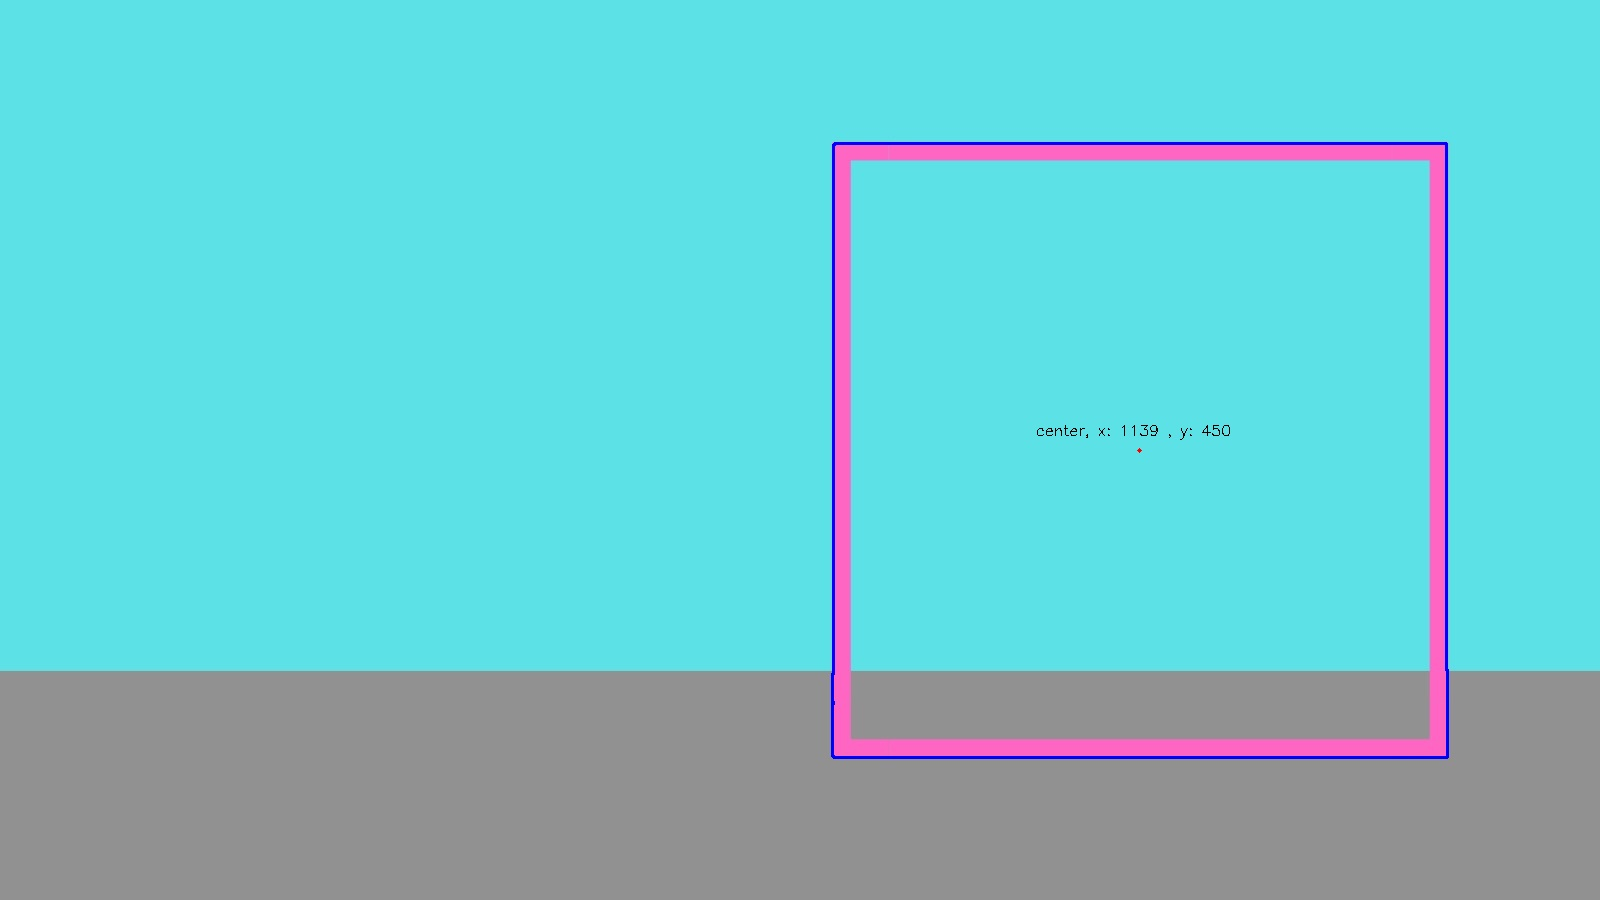
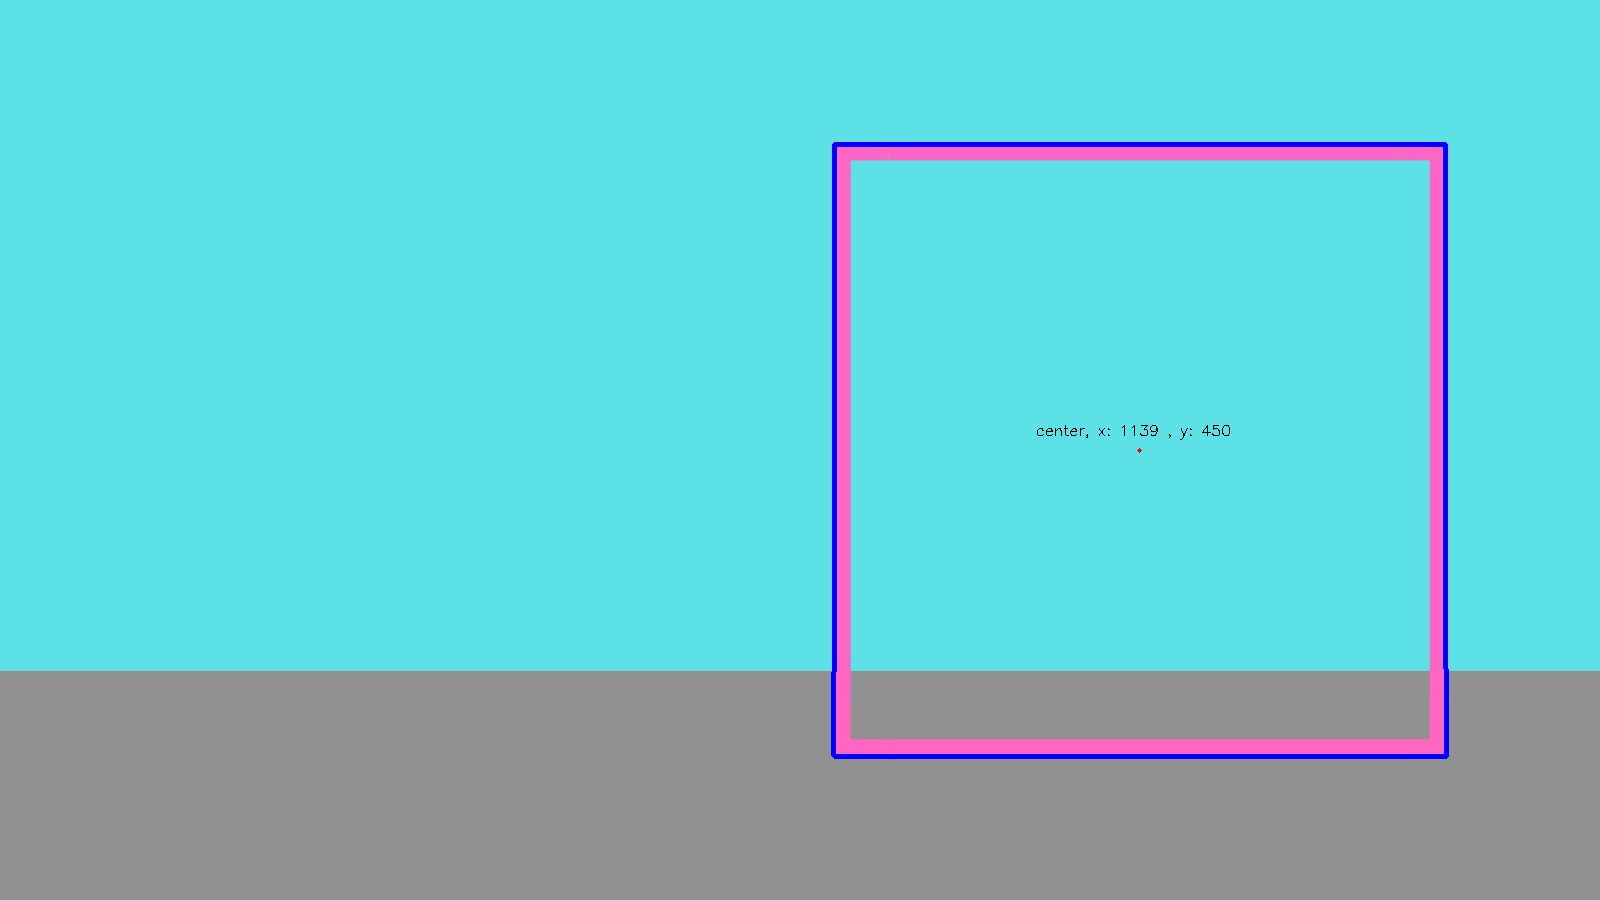
Thariq Ivan Anendar_5025221013_TugasOpenCV

Changed region(s): [[0.5, 0.8089, 0.9062, 0.84], [0.5, 0.1556, 0.9062, 0.1867]]

diff --git a/Thariq_Ivan_Anenedar_5025221013_TugasOpenCV/Tugas2/Thariq_Ivan_Anenedar_5025221013_Tugas2.py b/Thariq_Ivan_Anenedar_5025221013_TugasOpenCV/Tugas2/Thariq_Ivan_Anenedar_5025221013_Tugas2.py
@@ -11,7 +11,7 @@ img = cv.GaussianBlur(img, (5, 5), 0)
 hsv = cv.cvtColor(img, cv.COLOR_BGR2HSV)
 
 # Define range of blue color in HSV
-lower_blue = np.array([140, 100, 50])
+lower_blue = np.array([140, 125, 50])
 upper_blue = np.array([170, 255, 255])
 
 # Threshold the HSV image to get only blue colors
@@ -42,7 +42,7 @@ x_akhir, y_akhir = 0, 0
 
 # Get coordinate of lowest and highest contour that found
 for j in n :
-    # Checking every 2 coodinate and check for lowest and highest contour
+    # Checking every coodinate and check for lowest and highest contour
     if(i % 2 == 0):
         x = n[i]
         y = n[i + 1]
@@ -72,7 +72,7 @@ cv.putText(hasil, string, (1035, 435),cv.FONT_ITALIC, 0.5, (0, 0, 0), 1)
 # Add circle at center point
 hasil = cv.circle(hasil, (int(x_coor),int(y_coor)), radius=0, color=(0, 0, 255), thickness=3)
 # Draws boundary of contours.
-cv.drawContours(hasil, contours, -1, (255, 0, 0), 2)
+cv.drawContours(hasil, contours, -1, (255, 0, 0), 3)
 # Showing the final image.
 cv.imshow('image3', hasil) 
 # Save final image
